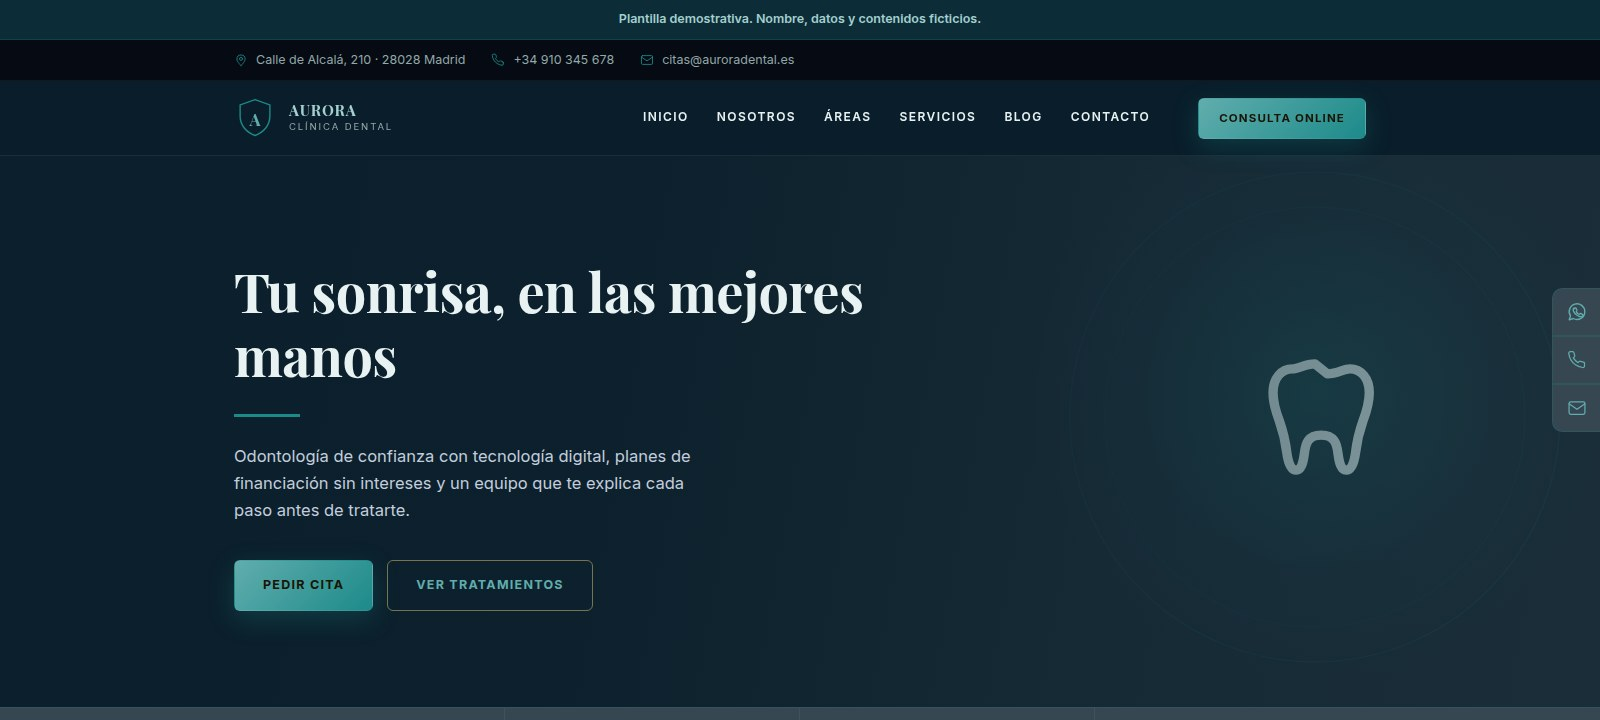
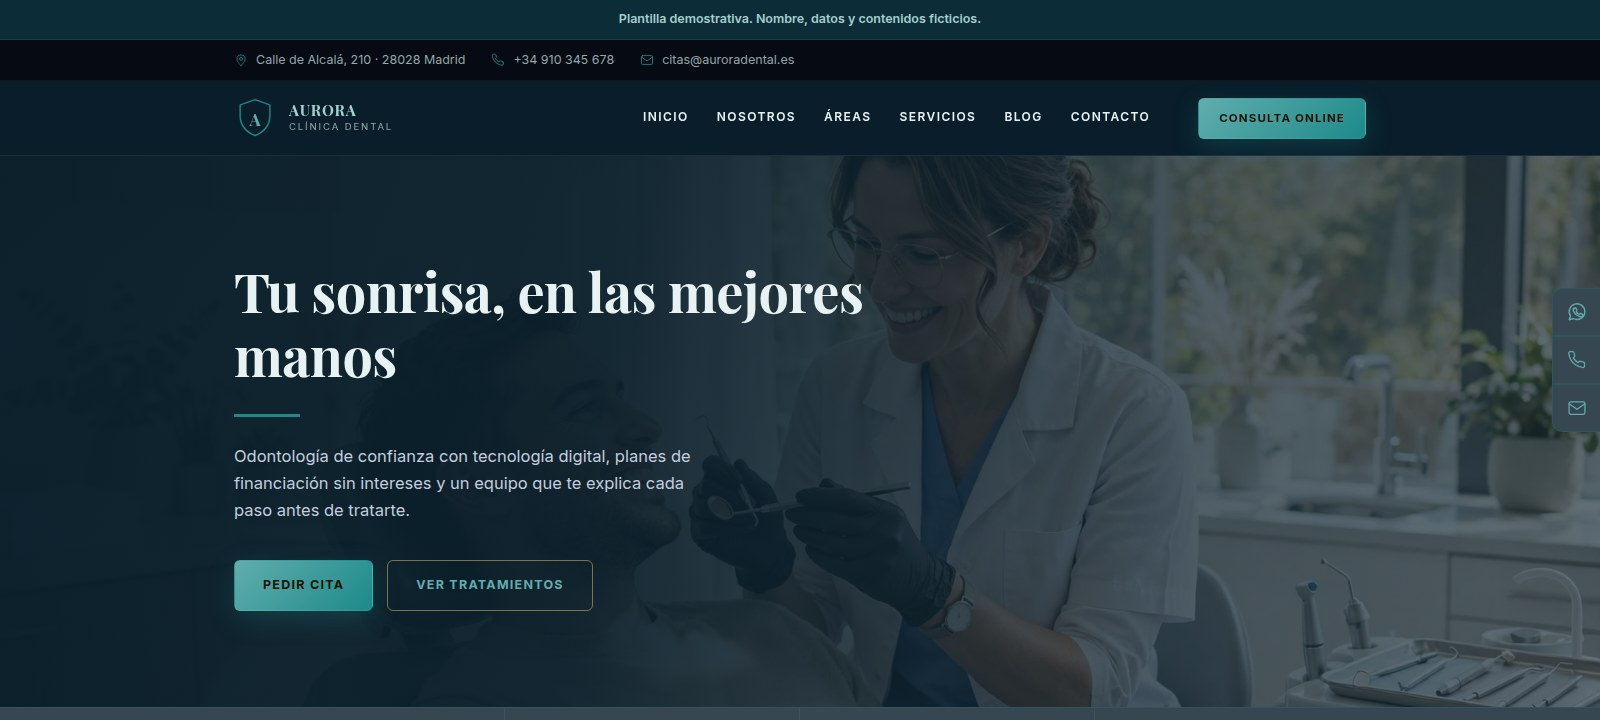
Añade las fotos reales a la demo de Aurora — Clínica Dental
- Foto de portada (dentista atendiendo a un paciente) y foto de
  "Nosotros" (equipo de la clínica en recepción)
- Miniatura del catálogo regenerada con la foto real

Claude-Session: https://claude.ai/code/session_01GH4UBwAk37e4FV2NGANpez

diff --git a/public/demos/clinica-dental-premium/index.html b/public/demos/clinica-dental-premium/index.html
@@ -53,26 +53,8 @@
 <!-- Portada -->
 <section class="portada" id="inicio">
   <div class="portada-fondo">
-          <svg class="portada-arte" viewBox="0 0 520 520" fill="none" aria-hidden="true">
-  <defs>
-    <radialGradient id="brillo" cx="50%" cy="46%" r="52%">
-      <stop offset="0%" stop-color="#1d8a8a" stop-opacity=".30"/>
-      <stop offset="60%" stop-color="#1d8a8a" stop-opacity=".07"/>
-      <stop offset="100%" stop-color="#1d8a8a" stop-opacity="0"/>
-    </radialGradient>
-    <linearGradient id="metal" gradientUnits="userSpaceOnUse" x1="260" y1="100" x2="260" y2="400">
-      <stop offset="0%" stop-color="#c7e2e2"/>
-      <stop offset="55%" stop-color="#1d8a8a"/>
-      <stop offset="100%" stop-color="#135a5a"/>
-    </linearGradient>
-  </defs>
-
-  <circle cx="260" cy="248" r="238" fill="url(#brillo)"/>
-  <circle cx="260" cy="248" r="196" stroke="#1d8a8a" stroke-opacity=".16" stroke-width="1"/>
-  <circle cx="260" cy="248" r="168" stroke="#1d8a8a" stroke-opacity=".10" stroke-width="1"/>
-
-  <g transform="translate(200,188)"><svg width="120" height="120" viewBox="0 0 24 24" fill="none" stroke="url(#metal)" stroke-width="1.5" stroke-linecap="round" stroke-linejoin="round" aria-hidden="true"><path d="M12 3.5c-1.6 0-2.6.8-3.6.8-1.8 0-3.1 1.5-3.1 3.8 0 1.6.4 2.9 1 4.5.6 1.7 1 3.4 1.2 5.1.2 1.5.6 2.8 1.5 2.8.8 0 1.1-1.1 1.3-2.6.2-1.7.6-3 2.7-3s2.5 1.3 2.7 3c.2 1.5.5 2.6 1.3 2.6.9 0 1.3-1.3 1.5-2.8.2-1.7.6-3.4 1.2-5.1.6-1.6 1-2.9 1-4.5 0-2.3-1.3-3.8-3.1-3.8-1 0-2 .8-3.6.8z"/></svg></g>
-</svg>      </div>
+          <img src="img/hero.jpg" alt="">
+      </div>
   <div class="portada-vel"></div>
   <div class="env">
     <div class="portada-in">
@@ -233,9 +215,7 @@
   <div class="env">
     <div class="nos-rejilla">
       <div class="nos-foto">
-                  <div style="height:430px;display:flex;align-items:center;justify-content:center;
-            background:linear-gradient(150deg,#111d33,#0b1424);border:1px solid var(--linea);border-radius:var(--radio)">
-            <svg class="marca-emblema" width="150" height="150" viewBox="0 0 48 48" fill="none" aria-hidden="true"><path d="M24 3l17 6v13c0 10-7 18.5-17 22C14 40.5 7 32 7 22V9z" fill="none" stroke="#1d8a8a" stroke-width="1.6"/><text x="24" y="25" text-anchor="middle" dominant-baseline="central" font-family="Playfair Display, Georgia, serif" font-weight="700" font-size="19" fill="#61adad">A</text></svg>          </div>
+                  <img src="img/nosotros.jpg" alt="Nuestro equipo">
                 <div class="nos-sello">
           <strong>+20</strong>
           <span>años de experiencia</span>
